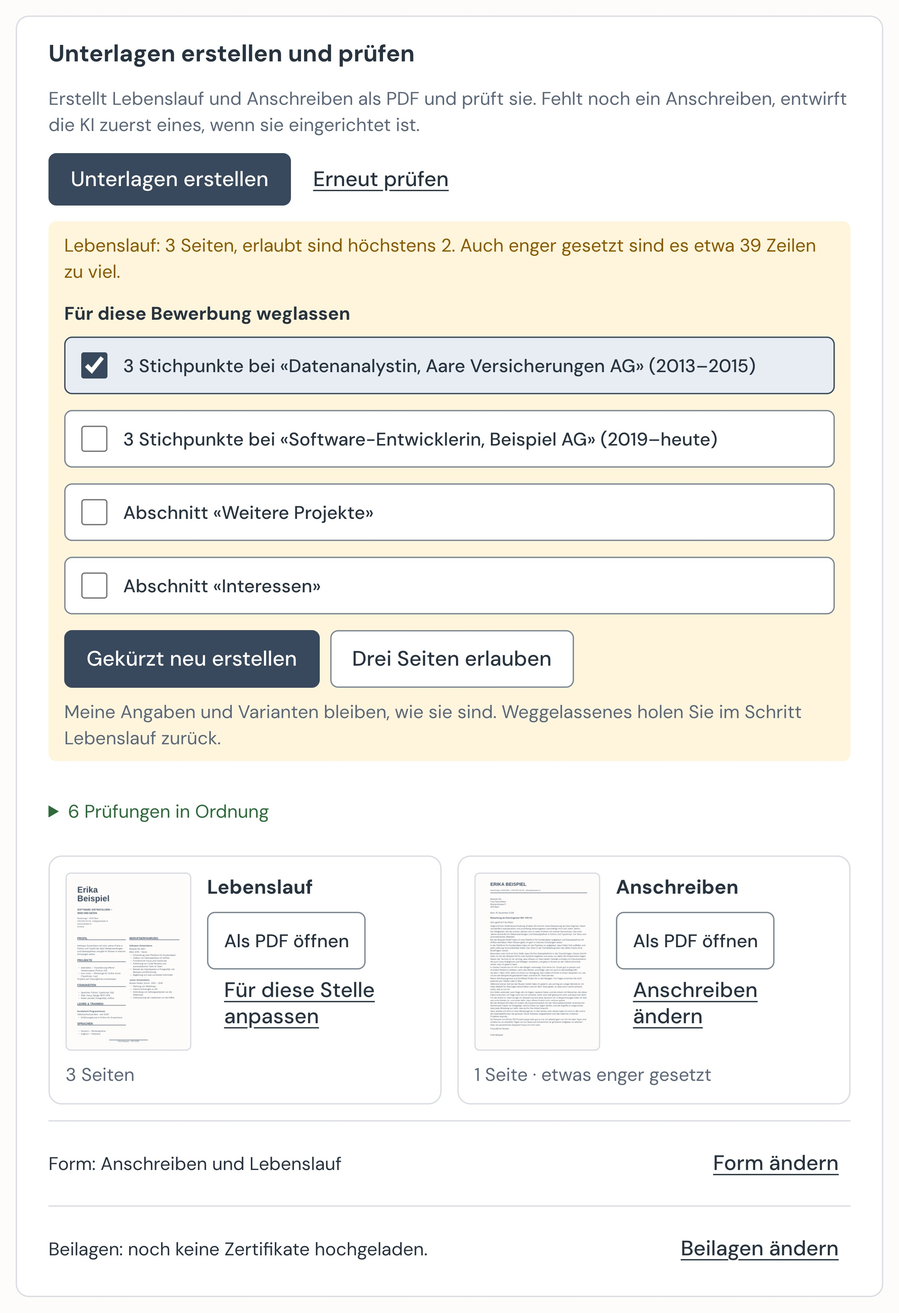
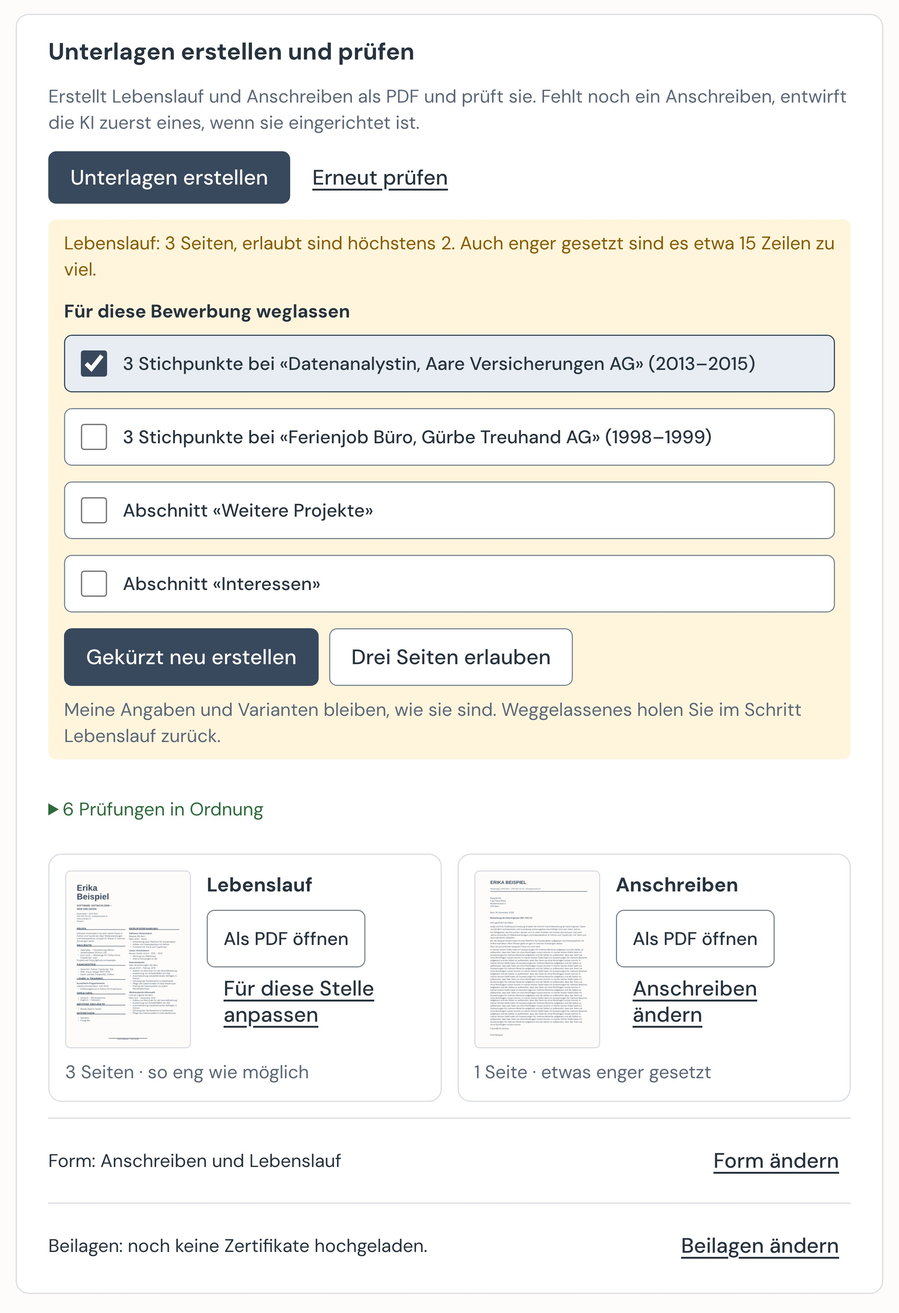
feat(lebenslauf): set an over-long cv as tight as possible [G96]
A CV that tightening cannot bring to its page limit was balanced like
any other, so its tile named no change; it now stays at the tightest
level like the letter, and the guide and its picture say so.

Pullboard-Item: #333

diff --git a/lebenslauf/tests/test_page_limit.py b/lebenslauf/tests/test_page_limit.py
@@ -10,6 +10,7 @@ import anschreiben
 import build
 import cuts
 import dossier
+import fill_record
 import page_fill
 from page_fill import Fill
 from page_fill_samples import cv_of_length, example_cv, example_letter, letter_of_length, page_count
@@ -17,6 +18,8 @@ from page_fill_samples import cv_of_length, example_cv, example_letter, letter_o
 # Drawn, this CV has three pages with a full enough last page, so the page fill alone would keep them (G49)
 THREE_PAGES = 26
 THREE_PAGE_DESIGN = "dossier-siegel"
+# Even set as tight as possible, this CV has three pages
+TOO_LONG = 40
 
 
 def _probe(fills: dict[int, Fill], otherwise: Fill):
@@ -71,7 +74,8 @@ def test_a_one_page_letter_keeps_its_balancing():
     assert page_fill.choose(probe, limit=1, tight_over_limit=True) == page_fill.choose(probe, limit=1) == 0
 
 
-def test_levels_set_only_the_letter_tight_when_it_stays_over_its_limit():
+def test_levels_set_each_part_tight_when_it_stays_over_its_limit():
+    """G94 for the letter, G96 for the CV: never spread to fill a page beyond the limit."""
     def query(inputs: dict) -> list[dict]:
         found = []
         for part, start, pages in (("letter", 1, 2), ("cv", 3, 3)):
@@ -85,7 +89,9 @@ def test_levels_set_only_the_letter_tight_when_it_stays_over_its_limit():
 
     chosen = page_fill.levels(query, {}, ("letter", "cv"))
     assert chosen["density-letter"] == str(page_fill.TIGHTER[-1])
-    assert chosen["density-cv"] == "-1", "a CV over its limit is cut by the person (G92), its pages stay balanced"
+    assert chosen["density-cv"] == str(page_fill.TIGHTER[-1]), "never wider, though one step wider fills its page"
+    allowed = page_fill.levels(query, {}, ("letter", "cv"), page_fill.limits(3))
+    assert allowed["density-cv"] == "-1", "a CV within its limit keeps its balancing"
 
 
 def test_the_limits_allow_a_three_page_cv_only_when_asked():
@@ -135,6 +141,34 @@ def test_a_three_page_cv_is_brought_to_two_pages_by_default(three_pages):
 def test_with_three_pages_allowed_the_cv_keeps_its_three_pages(three_pages):
     result = _dossier(three_pages, "three", "--lebenslauf-seiten", "3")
     assert page_count(result.cv) == 3
+
+
+@pytest.fixture(scope="module")
+def too_long(tmp_path_factory):
+    folder = tmp_path_factory.mktemp("too-long")
+    (folder / "cv.yaml").write_text(yaml.safe_dump(cv_of_length(TOO_LONG), allow_unicode=True), encoding="utf-8")
+    (folder / "brief.yaml").write_text(yaml.safe_dump(example_letter(), allow_unicode=True), encoding="utf-8")
+    (folder / "dossier.yaml").write_text(yaml.safe_dump({"lebenslauf": "cv.yaml", "anschreiben": "brief.yaml"}),
+                                         encoding="utf-8")
+    return folder
+
+
+def test_a_cv_that_no_tightening_brings_to_two_pages_is_built_as_tight_as_possible(too_long):
+    """G96: like the letter (G94), so the tile names «so eng wie möglich» and the check how much is too much."""
+    built = build.run([str(too_long / "cv.yaml"), "--build-dir", str(too_long / "build-cv"),
+                       "-o", str(too_long / "cv.pdf")])
+
+    assert page_count(built.pdf) > page_fill.LIMITS["cv"]
+    assert built.levels == {"cv": page_fill.TIGHTER[-1]}
+    assert page_fill.change(fill_record.read(built.pdf)["cv"]) == "tightest"
+
+
+def test_inside_a_dossier_a_cv_that_stays_too_long_is_set_as_tight_as_possible(too_long):
+    result = _dossier(too_long, "too-long")
+
+    assert page_count(result.cv) > page_fill.LIMITS["cv"]
+    assert result.levels["dossier"]["cv"] == result.levels["cv"]["cv"] == page_fill.TIGHTER[-1]
+    assert fill_record.read(result.dossier)["cv"] == page_fill.TIGHTER[-1]
 
 
 def test_the_cv_build_takes_the_allowed_pages(monkeypatch, tmp_path):

diff --git a/lebenslauf/page_fill.py b/lebenslauf/page_fill.py
@@ -8,9 +8,9 @@ tries both fixes within the design and takes the smaller change: tighter (spacin
 removed; when neither works, the part stays as the design draws it.
 
 A part over its page limit (G51: the letter one page, the CV two, or three where the person allows it) is tightened
-first, until it fits the limit. When even the tightest level does not, the page fill above decides for the CV, while
-the letter stays at the tightest level (G94); the check before sending names what could be cut (cuts.py), and content
-only goes when the person removes it.
+first, until it fits the limit. When even the tightest level does not, the part stays at the tightest level and is never
+set wider (G94 for the letter, G96 for the CV); the check before sending names what could be cut (cuts.py), and
+content only goes when the person removes it.
 """
 import dataclasses
 import functools
@@ -28,8 +28,9 @@ WIDER = (-1, -2, -3, -4, -5)
 SLIGHTLY = 2  # up to this level a reader barely sees the tightening (G93)
 SELECTOR = "<page-fill>"
 LIMITS = {"cv": 2, "letter": 1}  # pages per part (G51)
-# Parts set as tight as possible when they stay over their limit (G94); the CV is cut by the person instead (G92)
-TIGHT_OVER_LIMIT = frozenset({"letter"})
+# Parts set as tight as possible when they stay over their limit (G94, G96), so the person sees how little is too
+# much; content only goes when the person cuts it (G92)
+TIGHT_OVER_LIMIT = frozenset({"letter", "cv"})
 CV_PAGES = (2, 3)  # what the person can allow for the CV under „Erweitert“
 BAD_CV_PAGES = "Der Lebenslauf hat zwei oder drei Seiten."
 
@@ -81,7 +82,7 @@ def choose(probe: Callable[[int], Fill], limit: int | None = None, tight_over_li
     """The density level of a part: within its page limit first, then so its last page is not nearly empty.
 
     With `tight_over_limit`, a part that even the tightest level cannot bring within its limit stays at that level
-    instead of being balanced (G94, the letter): the person sees how little is too much."""
+    instead of being balanced (G94 the letter, G96 the CV): the person sees how little is too much."""
     probe = functools.cache(probe)
     if limit is not None and probe(0).pages > limit:
         fitting = _within_limit(probe, limit)

diff --git a/desktop/tests/test_guide_redesign.py b/desktop/tests/test_guide_redesign.py
@@ -158,8 +158,11 @@ def test_the_pictures_say_what_they_show_today():
     assert "beim Anschreiben 1 Seite · etwas enger gesetzt" in picture
     assert "**1 Seite · etwas enger gesetzt**" in check and "**7 Seiten · Lebenslauf etwas enger gesetzt**" in check
     assert "damit keine Seite fast leer bleibt und die Seitenzahl eingehalten wird" in check
-    assert ("Passt ein Lebenslauf auch so eng wie möglich nicht, setzt die App ihn wie vorgegeben; dann steht nur die Zahl "
-            "der Seiten da, und der Befund darüber nennt, wie viel zu viel ist.") in check
+    # G96, #333: a CV too long even at its tightest stays as tight as possible, like the letter
+    assert ("Ein zu langer Lebenslauf bleibt wie ein zu langes Anschreiben so eng wie möglich gesetzt, etwa "
+            "**5 Seiten · so eng wie möglich**.") in check
+    assert "Passt ein Lebenslauf auch so eng wie möglich nicht" not in check
+    assert "beim Lebenslauf 3 Seiten · so eng wie möglich" in picture
     # G94, #325: a letter over one page stays as tight as possible, cut in the letter or left as it is
     assert "Ein zu langes Anschreiben bleibt so eng gesetzt, etwa **2 Seiten · so eng wie möglich**." in check
     assert ("**Im Anschreiben kürzen** führt zum Schritt **Anschreiben**, wo über dem längsten Absatz **Längster Absatz** "

diff --git a/lebenslauf/tests/test_page_fill.py b/lebenslauf/tests/test_page_fill.py
@@ -94,9 +94,15 @@ def test_no_content_is_removed_to_fill_the_pages(built, design):
 @pytest.mark.parametrize("design", DESIGNS)
 @pytest.mark.parametrize("length", CV_LENGTHS)
 def test_the_last_page_of_a_cv_is_at_least_a_third_full(built, design, length):
+    """G49 within the page limit; a CV over it even at the tightest level stays that tight (G96, like G94)."""
     for name, (pdf, first, last) in _documents(built, "cv", design, length):
-        fill = last_page_fill(pdf, first, last)
-        assert fill is None or fill >= MIN_FILL_RULE, f"{design} {name}: last page {fill:.0%} full"
+        pages = (last or page_count(pdf)) - first + 1
+        if pages > page_fill.LIMITS["cv"]:
+            level = fill_record.read(pdf)["cv"]
+            assert level == page_fill.TIGHTER[-1], f"{design} {name}: {pages} pages at level {level}"
+        else:
+            fill = last_page_fill(pdf, first, last)
+            assert fill is None or fill >= MIN_FILL_RULE, f"{design} {name}: last page {fill:.0%} full"
 
 
 @pytest.mark.parametrize("design", DESIGNS)

diff --git a/docs/installation.md b/docs/installation.md
@@ -211,9 +211,9 @@ Gibt es Suchprofil, Stilprofil oder Bausteine schon, fragt die App beim Überneh
 
 1. **Suchen**: Klicken Sie links auf **Stellen** und dann auf **Jetzt suchen**. Die Erweiterung sucht auf den Portalen, in Ihrem Browser und nur, wenn Sie die Suche starten. Ohne gewählte Kantone sucht sie in der ganzen Schweiz; Stellen nahe Ihrem Wohnort stehen dann zuerst. Lässt sich die Suche noch nicht starten, steht der Grund direkt unter dem Knopf, etwa **Zuerst Meine Angaben abschliessen.** Oben fasst eine Zeile die Einstellungen zusammen: Suchbegriffe, Region und Anzahl Portale. Mit **Ändern** oder **Suche einstellen** öffnen Sie die Seite **Suche einstellen** und wählen dort unter **Wo suchen Sie?** die Portale. Region, Pensum, was Sie nicht sehen wollen und den Titelfilter unter **Erweitert** ändern Sie dort ebenfalls: **Ändern** in der Karte öffnet die Felder, **Speichern** gilt ab der nächsten Suche, und der frühere Stand bleibt als Entwurf erhalten. Passen Ihre Begriffe nicht zur Informatik, ist ictjobs zu Beginn ausgeschaltet. Die Suche läuft alle Ihre Suchbegriffe und Orte ab, pro Portal in Etappen von höchstens 30 Suchen mit einer Minute Pause dazwischen, damit die Portale nicht alles auf einmal bekommen. Vor einer langen Suche steht unter **Jetzt suchen**, wie viele Suchen und Etappen es sind und wie lange es etwa dauert; während der Suche zeigt die Seite, auf welchem Portal sie mit welchem Suchbegriff und Ort sucht und bei welcher Suche und Etappe sie ist. Pro Portal holt ein Lauf höchstens 150 neue Inserate, der Rest kommt bei der nächsten Suche. Ihre Suchbegriffe stehen auf **Suche einstellen** unter **Welche Stellen passen zu Ihnen?**: Einen eigenen tragen Sie unter **Eigenen Suchbegriff aufnehmen** ein und klicken auf **Aufnehmen**. Haben Sie einen Begriff aus Versehen entfernt, holt **Rückgängig** in der Meldung ihn an seinen Platz zurück. Die Suche sucht Ihre Begriffe von oben nach unten, die wichtigsten zuerst; ein neuer Begriff kommt ans Ende. Um die Reihenfolge zu ändern, ziehen Sie einen Begriff an den Punkten links an seinen Platz, oder Sie verschieben ihn mit den Pfeilen daneben, auch mit der Tastatur. Die neue Reihenfolge gilt ab der nächsten Suche, und der frühere Stand bleibt als Entwurf erhalten.
 2. **Entscheiden**: Neue Treffer stehen unter **Neu**. Hat ein Treffer noch keine Note, lässt **Bewerten** die KI einschätzen, wie gut er zu Ihnen passt; **Alle prüfen** über der Liste tut das für alle, mit den geschätzten Kosten daneben. Während es läuft, steht im Kasten, welches Inserat die Erweiterung gerade holt und welche Stellen die KI gerade prüft. Beim gewählten Treffer klicken Sie auf **Bewerbung vorbereiten**: Die App legt die Bewerbung an und öffnet sie. **Merken** legt sie an, ohne sie zu öffnen; die Meldung **Gemerkt.** führt mit **Bewerbung öffnen** zu ihr. **Verwerfen** blendet den Treffer aus. Gemerkte Treffer stehen unter **Gemerkt**, verworfene unter **Verworfen**. Mehrere auf einmal merkt **Alle ab Note … merken** unter der Liste: Wählen Sie die Note, die App nennt vorher, welche Treffer das sind, und merkt sie erst, wenn Sie bestätigen. Treffer ohne Note bleiben dabei, wie sie sind.
-3. **Bewerben**: **Heute** zeigt, was als Nächstes zu tun ist, und die Seite **Bewerbungen** den nächsten Schritt jeder Bewerbung. Öffnen Sie eine Bewerbung. Unter **Lebenslauf** wählen Sie die Variante oder erstellen mit **Lebenslauf erstellen** einen Lebenslauf für diese Stelle (siehe [Lebenslauf für eine Stelle erstellen](#lebenslauf-für-eine-stelle-erstellen)). Unter **Unterlagen erstellen und prüfen** wählen Sie, ob die Unterlagen als **Anschreiben und Lebenslauf** entstehen, zwei PDF wie vorgegeben, oder als **Dossier**. Mit Dossier fasst eine Zeile Design, Zeichen und Farbe sowie Begrüssung und Dank zusammen; **Dossier gestalten** öffnet dazu ein Fenster mit einer Vorschau des Deckblatts. Unter **Für diese Bewerbung** wählen Sie das Design, unter **Design pro Seite** eines für einzelne Seiten, dazu Begrüssung und Dank; das gilt erst mit **Übernehmen**, und **Abbrechen** fragt **Änderungen verwerfen?**, wenn Sie Texte geändert haben. Zeichen und Farbe unter **Für alle Dossiers** gelten für alle Dossiers und sind sofort gespeichert. Dann klicken Sie auf **Unterlagen erstellen**. Fehlt noch ein Anschreiben, entwirft die KI dabei zuerst eines; das kann bis zu einer Minute dauern. Der Entwurf ist ein Ausgangspunkt: Lesen Sie ihn, passen Sie ihn mit **Anschreiben ändern** an die Stelle und die Firma an, und klicken Sie dann auf **Freigeben**. Jeder Absatz hat ein eigenes Feld; darunter steht, wie viele Zeilen er etwa braucht. Mit **Speichern** gilt der neue Text, die Freigabe ist dann aufgehoben; **Unterlagen neu erstellen** baut die PDF neu. Empfänger, Ort und Datum ändern Sie mit **Als Text bearbeiten (für Geübte)**. Die App prüft die erstellten PDFs unter **Unterlagen erstellen und prüfen**: wie voll die letzte Seite ist, ob eine Überschrift allein am Ende einer Seite steht und ob Text über den Rand oder über anderen Text läuft. Jeder Befund nennt das Dokument und die Seite und hat einen Knopf **So lassen**; das Formular öffnet sich erst, wenn Sie jeden Befund angesehen und bestätigt haben. Was in Ordnung ist, steht zugeklappt darunter, etwa **6 Prüfungen in Ordnung**. Ist der Lebenslauf auch eng gesetzt zu lang, nennt der Befund, wie viele Zeilen zu viel sind, und statt **So lassen** stehen darunter Kürzungen zum Anhaken, etwa **3 Stichpunkte bei «Station, Firma» (2015–2018)** oder ein ganzer Abschnitt; die erste ist schon angehakt. **Gekürzt neu erstellen** erstellt Lebenslauf und Dossier ohne das Angehakte neu, **Drei Seiten erlauben** lässt drei Seiten zu. Beides gilt nur für diese Bewerbung: Meine Angaben und Varianten bleiben, wie sie sind. Solange der Lebenslauf zu lang ist, nennt die Prüfung nicht, wie voll seine letzte Seite ist; diese Seite fällt ja weg. Ist der Lebenslauf danach noch zu lang, meldet die App **Gekürzt und neu erstellt. Der Lebenslauf ist noch zu lang; die nächste Kürzung ist angehakt.**, und der Befund kommt wieder, mit der nächsten Kürzung angehakt. Sind drei Seiten erlaubt und ist der Lebenslauf trotzdem zu lang, ohne dass noch eine Kürzung übrig ist, nennt der Befund, wie viele Zeilen zu viel sind. Weiter kürzen lässt sich dann mit **Lebenslauf erstellen**, nur für diese Bewerbung, oder unter **Meine Angaben**, für alle. Der Befund hat nur **So lassen**; das Formular öffnet sich erst, wenn Sie darauf geklickt haben. Nach der letzten Kürzung meldet die App **Gekürzt und neu erstellt. Der Lebenslauf ist noch zu lang; weiter kürzen lässt sich mit «Lebenslauf erstellen» oder unter «Meine Angaben».** Was weggelassen ist, steht unter **Lebenslauf**, nach **Lebenslauf erstellen** und **Lebenslauf anpassen**, bei **Für diese Bewerbung weggelassen**, und **Zurückholen** nimmt es wieder auf. Haben Sie drei Seiten erlaubt, steht darunter die Zeile **Drei Seiten erlaubt, nur für diese Bewerbung.** mit **Zurücknehmen**. **Zurücknehmen** bei **Drei Seiten erlaubt** gilt wieder die Grenze von zwei Seiten. Ist das Anschreiben länger als eine Seite, setzt die App es so eng wie möglich, damit Sie sehen, wie viel noch zu viel ist. Der Befund nennt, wie viele Zeilen es sind, und hat zwei Knöpfe: **Im Anschreiben kürzen** führt zum Schritt **Anschreiben**, wo über dem längsten Absatz **Längster Absatz** steht; **Anschreiben ändern** gleich daneben öffnet den Text. **Im Anschreiben kürzen** öffnet den Text mit dem Cursor im längsten Absatz. Klicken Sie nach dem Kürzen nochmals auf **Unterlagen erstellen**. **So lassen** verwendet das Anschreiben so, wie es ist. Gekürzt wird es nur von Ihnen. Pro Dokument zeigt eine Kachel die erste Seite und darunter, wie viele Seiten es hat. Hat die App den Satz verändert, damit keine Seite fast leer bleibt und die Seitenzahl eingehalten wird, steht in wenigen Worten dabei, wie, etwa **1 Seite · etwas enger gesetzt**, **2 Seiten · etwas grosszügiger gesetzt** oder **2 Seiten · so eng wie möglich**; beim Dossier mit dem Teil, etwa **7 Seiten · Lebenslauf etwas enger gesetzt**. Passt ein Lebenslauf auch so eng wie möglich nicht, setzt die App ihn wie vorgegeben; dann steht nur die Zahl der Seiten da, und der Befund darüber nennt, wie viel zu viel ist. Ein zu langes Anschreiben bleibt so eng gesetzt, etwa **2 Seiten · so eng wie möglich**. **Als PDF öffnen** zeigt das ganze PDF, und ein Link führt dorthin, wo Sie es ändern: **Für diese Stelle anpassen** zur Wahl der Lebenslauf-Variante, bei Ihrem eigenen PDF **In Lebenslauf und Dateien ändern**, **Anschreiben ändern** zum Anschreiben und **Dossier gestalten** zum Dossier. Nach dem Erstellen steht die gewählte Form nur noch als eine Zeile über den Beilagen, etwa **Form: Dossier, Siegel**; **Form ändern** zeigt die Kacheln wieder. Die Beilagen stehen in einer Zeile; **Beilagen ändern** öffnet die Liste der Zertifikate, und **Auswahl speichern** hält sie fest. Danach öffnet **Formular öffnen** das Formular der Firma, und die Erweiterung füllt es aus. Haben Sie schon einen fertigen Lebenslauf, entfällt das Erstellen (siehe [Fertige Dateien verwenden](#fertige-dateien-verwenden)).
+3. **Bewerben**: **Heute** zeigt, was als Nächstes zu tun ist, und die Seite **Bewerbungen** den nächsten Schritt jeder Bewerbung. Öffnen Sie eine Bewerbung. Unter **Lebenslauf** wählen Sie die Variante oder erstellen mit **Lebenslauf erstellen** einen Lebenslauf für diese Stelle (siehe [Lebenslauf für eine Stelle erstellen](#lebenslauf-für-eine-stelle-erstellen)). Unter **Unterlagen erstellen und prüfen** wählen Sie, ob die Unterlagen als **Anschreiben und Lebenslauf** entstehen, zwei PDF wie vorgegeben, oder als **Dossier**. Mit Dossier fasst eine Zeile Design, Zeichen und Farbe sowie Begrüssung und Dank zusammen; **Dossier gestalten** öffnet dazu ein Fenster mit einer Vorschau des Deckblatts. Unter **Für diese Bewerbung** wählen Sie das Design, unter **Design pro Seite** eines für einzelne Seiten, dazu Begrüssung und Dank; das gilt erst mit **Übernehmen**, und **Abbrechen** fragt **Änderungen verwerfen?**, wenn Sie Texte geändert haben. Zeichen und Farbe unter **Für alle Dossiers** gelten für alle Dossiers und sind sofort gespeichert. Dann klicken Sie auf **Unterlagen erstellen**. Fehlt noch ein Anschreiben, entwirft die KI dabei zuerst eines; das kann bis zu einer Minute dauern. Der Entwurf ist ein Ausgangspunkt: Lesen Sie ihn, passen Sie ihn mit **Anschreiben ändern** an die Stelle und die Firma an, und klicken Sie dann auf **Freigeben**. Jeder Absatz hat ein eigenes Feld; darunter steht, wie viele Zeilen er etwa braucht. Mit **Speichern** gilt der neue Text, die Freigabe ist dann aufgehoben; **Unterlagen neu erstellen** baut die PDF neu. Empfänger, Ort und Datum ändern Sie mit **Als Text bearbeiten (für Geübte)**. Die App prüft die erstellten PDFs unter **Unterlagen erstellen und prüfen**: wie voll die letzte Seite ist, ob eine Überschrift allein am Ende einer Seite steht und ob Text über den Rand oder über anderen Text läuft. Jeder Befund nennt das Dokument und die Seite und hat einen Knopf **So lassen**; das Formular öffnet sich erst, wenn Sie jeden Befund angesehen und bestätigt haben. Was in Ordnung ist, steht zugeklappt darunter, etwa **6 Prüfungen in Ordnung**. Ist der Lebenslauf auch eng gesetzt zu lang, nennt der Befund, wie viele Zeilen zu viel sind, und statt **So lassen** stehen darunter Kürzungen zum Anhaken, etwa **3 Stichpunkte bei «Station, Firma» (2015–2018)** oder ein ganzer Abschnitt; die erste ist schon angehakt. **Gekürzt neu erstellen** erstellt Lebenslauf und Dossier ohne das Angehakte neu, **Drei Seiten erlauben** lässt drei Seiten zu. Beides gilt nur für diese Bewerbung: Meine Angaben und Varianten bleiben, wie sie sind. Solange der Lebenslauf zu lang ist, nennt die Prüfung nicht, wie voll seine letzte Seite ist; diese Seite fällt ja weg. Ist der Lebenslauf danach noch zu lang, meldet die App **Gekürzt und neu erstellt. Der Lebenslauf ist noch zu lang; die nächste Kürzung ist angehakt.**, und der Befund kommt wieder, mit der nächsten Kürzung angehakt. Sind drei Seiten erlaubt und ist der Lebenslauf trotzdem zu lang, ohne dass noch eine Kürzung übrig ist, nennt der Befund, wie viele Zeilen zu viel sind. Weiter kürzen lässt sich dann mit **Lebenslauf erstellen**, nur für diese Bewerbung, oder unter **Meine Angaben**, für alle. Der Befund hat nur **So lassen**; das Formular öffnet sich erst, wenn Sie darauf geklickt haben. Nach der letzten Kürzung meldet die App **Gekürzt und neu erstellt. Der Lebenslauf ist noch zu lang; weiter kürzen lässt sich mit «Lebenslauf erstellen» oder unter «Meine Angaben».** Was weggelassen ist, steht unter **Lebenslauf**, nach **Lebenslauf erstellen** und **Lebenslauf anpassen**, bei **Für diese Bewerbung weggelassen**, und **Zurückholen** nimmt es wieder auf. Haben Sie drei Seiten erlaubt, steht darunter die Zeile **Drei Seiten erlaubt, nur für diese Bewerbung.** mit **Zurücknehmen**. **Zurücknehmen** bei **Drei Seiten erlaubt** gilt wieder die Grenze von zwei Seiten. Ist das Anschreiben länger als eine Seite, setzt die App es so eng wie möglich, damit Sie sehen, wie viel noch zu viel ist. Der Befund nennt, wie viele Zeilen es sind, und hat zwei Knöpfe: **Im Anschreiben kürzen** führt zum Schritt **Anschreiben**, wo über dem längsten Absatz **Längster Absatz** steht; **Anschreiben ändern** gleich daneben öffnet den Text. **Im Anschreiben kürzen** öffnet den Text mit dem Cursor im längsten Absatz. Klicken Sie nach dem Kürzen nochmals auf **Unterlagen erstellen**. **So lassen** verwendet das Anschreiben so, wie es ist. Gekürzt wird es nur von Ihnen. Pro Dokument zeigt eine Kachel die erste Seite und darunter, wie viele Seiten es hat. Hat die App den Satz verändert, damit keine Seite fast leer bleibt und die Seitenzahl eingehalten wird, steht in wenigen Worten dabei, wie, etwa **1 Seite · etwas enger gesetzt**, **2 Seiten · etwas grosszügiger gesetzt** oder **2 Seiten · so eng wie möglich**; beim Dossier mit dem Teil, etwa **7 Seiten · Lebenslauf etwas enger gesetzt**. Ein zu langes Anschreiben bleibt so eng gesetzt, etwa **2 Seiten · so eng wie möglich**. Ein zu langer Lebenslauf bleibt wie ein zu langes Anschreiben so eng wie möglich gesetzt, etwa **5 Seiten · so eng wie möglich**. Bei beiden nennt der Befund darüber, wie viel zu viel ist. **Als PDF öffnen** zeigt das ganze PDF, und ein Link führt dorthin, wo Sie es ändern: **Für diese Stelle anpassen** zur Wahl der Lebenslauf-Variante, bei Ihrem eigenen PDF **In Lebenslauf und Dateien ändern**, **Anschreiben ändern** zum Anschreiben und **Dossier gestalten** zum Dossier. Nach dem Erstellen steht die gewählte Form nur noch als eine Zeile über den Beilagen, etwa **Form: Dossier, Siegel**; **Form ändern** zeigt die Kacheln wieder. Die Beilagen stehen in einer Zeile; **Beilagen ändern** öffnet die Liste der Zertifikate, und **Auswahl speichern** hält sie fest. Danach öffnet **Formular öffnen** das Formular der Firma, und die Erweiterung füllt es aus. Haben Sie schon einen fertigen Lebenslauf, entfällt das Erstellen (siehe [Fertige Dateien verwenden](#fertige-dateien-verwenden)).
 
-![Abschnitt Unterlagen erstellen und prüfen nach Unterlagen erstellen: gelb der Befund Lebenslauf: 3 Seiten, erlaubt sind höchstens 2, mit etwa 39 Zeilen zu viel, darunter unter Für diese Bewerbung weglassen vier Kürzungen zum Anhaken, angehakt die erste, 3 Stichpunkte bei «Datenanalystin, Aare Versicherungen AG» (2013–2015), dann die Knöpfe Gekürzt neu erstellen und Drei Seiten erlauben und der Satz, dass Meine Angaben und Varianten bleiben, wie sie sind, darunter zugeklappt 6 Prüfungen in Ordnung, je eine Kachel für Lebenslauf und Anschreiben mit der ersten Seite und darunter der Zahl der Seiten, beim Lebenslauf 3 Seiten, beim Anschreiben 1 Seite · etwas enger gesetzt, dazu Als PDF öffnen und dem Link zum Ändern, darunter die Zeile Form: Anschreiben und Lebenslauf mit Form ändern, zuunterst die Zeile der Beilagen mit Beilagen ändern](bilder/pruefung.jpg)
+![Abschnitt Unterlagen erstellen und prüfen nach Unterlagen erstellen: gelb der Befund Lebenslauf: 3 Seiten, erlaubt sind höchstens 2, mit etwa 15 Zeilen zu viel, darunter unter Für diese Bewerbung weglassen vier Kürzungen zum Anhaken, angehakt die erste, 3 Stichpunkte bei «Datenanalystin, Aare Versicherungen AG» (2013–2015), dann die Knöpfe Gekürzt neu erstellen und Drei Seiten erlauben und der Satz, dass Meine Angaben und Varianten bleiben, wie sie sind, darunter zugeklappt 6 Prüfungen in Ordnung, je eine Kachel für Lebenslauf und Anschreiben mit der ersten Seite und darunter der Zahl der Seiten, beim Lebenslauf 3 Seiten · so eng wie möglich, beim Anschreiben 1 Seite · etwas enger gesetzt, dazu Als PDF öffnen und dem Link zum Ändern, darunter die Zeile Form: Anschreiben und Lebenslauf mit Form ändern, zuunterst die Zeile der Beilagen mit Beilagen ändern](bilder/pruefung.jpg)
 
 Abgeschickt wird eine Bewerbung immer von Ihnen selbst.
 

diff --git a/lebenslauf/CLAUDE.md b/lebenslauf/CLAUDE.md
@@ -16,7 +16,7 @@ Lebenslauf-Generator des Bewerbungsbegleiters: Inhalt (YAML, JSON-Resume-Schema)
 - `themes/dossier-register/` – Entwurf „Register“ (`--theme dossier-register`): Deckblatt mit Inhaltsverzeichnis, Reiter am rechten Rand, Niveaus als Statusmarken mit Wort, Stationen als Tabellen mit Dauer (`dossier_data.durations`), keine Icons; optionale Seiten Beilagen (`anlagen`) und Referenzen (`references` im Lebenslauf). Die Reiterbeschriftungen zeichnet `themes/outline.typ` als Umrisse (SVG) und Typst markiert sie als Artefakt, damit `pdftotext` sie nicht liest; Einzeldateien haben keine Beschriftung.
 - `page_fill.py`, `themes/page-fill.typ` – Seitenfüllung (G49, G50): Jeder Teil (Lebenslauf, Anschreiben) setzt Marken, wo er beginnt und wo sein Inhalt auf der letzten Seite endet. Ist die letzte Seite weniger als zu einem Drittel gefüllt, wählen `build.py`, `anschreiben.py` und `dossier.py` vor dem Schreiben eine Dichte (`density-cv`, `density-letter`): enger (Abstände, Zeilenhöhe, Schrift nie unter 10 pt, G53), bis eine Seite wegfällt, oder weiter, bis die letzte Seite genug Inhalt hat; die kleinere Änderung gewinnt, Inhalt fällt nie weg. Überschriften bleiben bei ihrem ersten Eintrag, kurze Abschnitte (bis fünf Einträge) bleiben zusammen, der letzte Eintrag einzeiliger Abschnitte steht nie allein. Tests: `tests/test_page_fill.py` misst mit `pdftotext -bbox-layout`, `tests/test_page_fill_choice.py` die Wahl.
 - `fill_record.py` – was die Seitenfüllung getan hat (G93, #324): `build.run` und `anschreiben.run` geben PDF und Stufe pro Teil zurück (`Built`; `main` weiterhin nur den Pfad), `dossier.Result.levels` pro Datei. Jeder Bau legt die Stufen mit dem Fingerabdruck des PDFs als `<name>.page-fill.json` daneben; `read` nimmt sie nur für genau dieses PDF (für eine versendete Kopie über `built_as`). `page_fill.change` sagt, wie eine Stufe den Satz verändert hat: 1–2 `slightly-tighter`, 3–4 `tighter`, die engste `tightest`, negativ `wider`, 0 nichts. Tests: `tests/test_fill_record.py`.
-- Seitengrenzen (G51): Das Anschreiben hat eine Seite, der Lebenslauf höchstens zwei, mit `--lebenslauf-seiten 3` (`build.py`, `dossier.py`) drei. Ist ein Teil länger, wählt `page_fill.choose` zuerst die kleinste Verengung, die in die Grenze passt (enger, solange die letzte Seite dabei fast leer bliebe); reicht auch die engste nicht, gilt beim Lebenslauf die Seitenfüllung wie oben, das Anschreiben bleibt bei der engsten Stufe und wird nie weiter gesetzt (G94, `page_fill.TIGHT_OVER_LIMIT`, `choose(…, tight_over_limit=True)`), und `cuts.py` nennt für die Prüfung vor dem Versand, was sich kürzen lässt (Stichpunkte der Stationen mit den meisten, ältere zuerst, dann verzichtbare Abschnitte; beim Anschreiben der längste Absatz). Gekürzt wird nur durch die Person. Beim Lebenslauf (G92) sind es Kürzungen zum Anhaken (`cuts.options`: `Cut` mit Id, Text wie „3 Stichpunkte bei «Station, Firma» (2015–2018)“, Station und Zahl der bleibenden Punkte oder Abschnitt); `cuts.chosen` hält die Wahl als Daten fest (Station über Position, Firma und Beginn, `behalten`, `abschnitte`), `cuts.apply` wendet sie auf eine Kopie an (über `max_highlights_per_station` von `tailor.py`), `left_out` und `without` dienen dem Zurückholen. `build.py` und `dossier.py` lesen sie mit `--kuerzungen <yaml>` nach dem Zuschnitt. Tests: `tests/test_page_limit.py`, `tests/test_cv_cuts.py`.
+- Seitengrenzen (G51): Das Anschreiben hat eine Seite, der Lebenslauf höchstens zwei, mit `--lebenslauf-seiten 3` (`build.py`, `dossier.py`) drei. Ist ein Teil länger, wählt `page_fill.choose` zuerst die kleinste Verengung, die in die Grenze passt (enger, solange die letzte Seite dabei fast leer bliebe); reicht auch die engste nicht, bleiben Anschreiben und Lebenslauf bei der engsten Stufe und werden nie weiter gesetzt (G94, G96, `page_fill.TIGHT_OVER_LIMIT`, `choose(…, tight_over_limit=True)`; die Kachel nennt dann «so eng wie möglich»), und `cuts.py` nennt für die Prüfung vor dem Versand, was sich kürzen lässt (Stichpunkte der Stationen mit den meisten, ältere zuerst, dann verzichtbare Abschnitte; beim Anschreiben der längste Absatz). Gekürzt wird nur durch die Person. Beim Lebenslauf (G92) sind es Kürzungen zum Anhaken (`cuts.options`: `Cut` mit Id, Text wie „3 Stichpunkte bei «Station, Firma» (2015–2018)“, Station und Zahl der bleibenden Punkte oder Abschnitt); `cuts.chosen` hält die Wahl als Daten fest (Station über Position, Firma und Beginn, `behalten`, `abschnitte`), `cuts.apply` wendet sie auf eine Kopie an (über `max_highlights_per_station` von `tailor.py`), `left_out` und `without` dienen dem Zurückholen. `build.py` und `dossier.py` lesen sie mit `--kuerzungen <yaml>` nach dem Zuschnitt. Tests: `tests/test_page_limit.py`, `tests/test_cv_cuts.py`.
 - Ohne Foto (G62): `--ohne-foto` (`build.py`, `dossier.py`) lässt `basics.image` und `basics.x-image` nach dem Zuschnitt weg (`build.without_photo`); `cv.yaml` bleibt unverändert. Tests: `tests/test_without_photo.py`.
 - Zeichen und Farbe eines einzelnen Lebenslaufs (G77): `--zeichen <variante>` und `--akzent <#hex>` (nur `build.py`) legen über `cv_look.py` `x-aussehen` in `cv.json`; `themes/cv-look.typ` zeichnet das Zeichen klein in die Fusszeile jeder Seite (mit `chosen-mark` aus `themes/zeichen.typ`) und färbt Linien (zweispaltig) oder Überschriften (einspaltig, über `accent-text`). Ohne die Optionen, oder mit `passend`, baut der Lebenslauf wie bisher; `x-zeichen` und `x-akzent` aus `cv.yaml` liest nur das Dossier. Tests: `tests/test_cv_look.py`.
 - `type_area.py`, `themes/type-area.typ` – Satzspiegel (G51, #304): Jede Seite jedes Designs setzt als Vordergrund eine Marke mit ihren vier Rändern und der Linie, ab der Fusszeile oder ein Band am Fuss mit Text beginnen (`type-area(foot: …)`, z.B. das Kontaktband auf dem Deckblatt von Siegel). `build.py`, `anschreiben.py` und `dossier.py` lesen sie nach dem Schreiben mit denselben Eingaben und legen sie mit dem Fingerabdruck des PDFs als `<name>.type-area.json` daneben; die Prüfung vor dem Versand (`bewerbungen/layout_check.py`) misst Text an diesen Rändern. Ein neues Design setzt die Marke über `type-area()` im Seitenstil.
